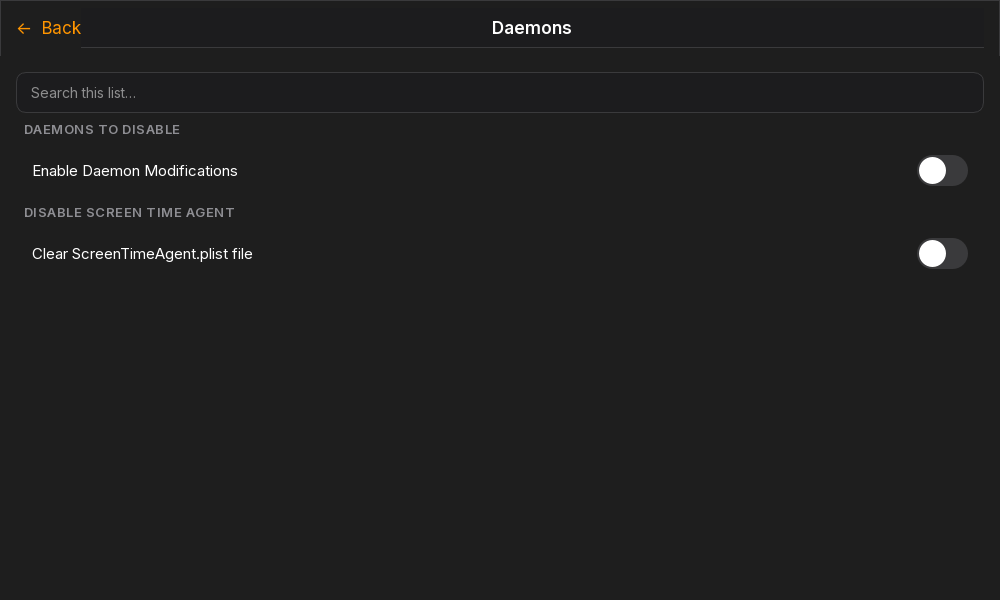
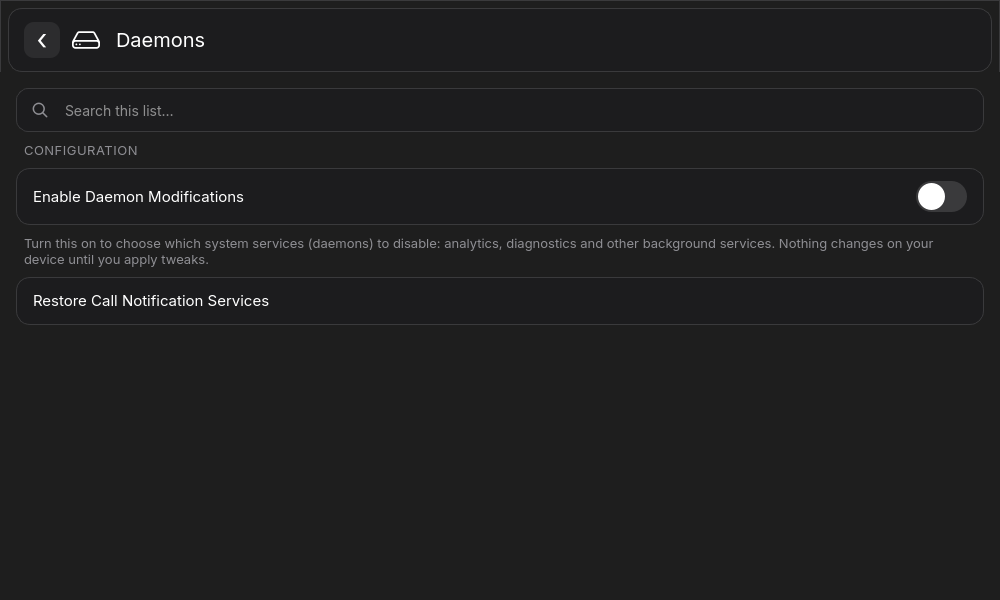
[DOCS] Bring the README feature list and screenshots up to date
- Status Bar on iOS 27 covers the whole cellular entry (carrier name,
  service badge, signal bars), not just the carrier name.
- SpringBoard, Internal, Liquid Glass and Daemons lists now match the tweak
  registry and the Daemons page; Icon Themes, Passcode Themes, Presets and
  the CLI are listed.
- Translation steps point to gNugget-i18n and I18N_SETUP.md instead of
  regenerating the mirrored Nugget_*.ts files; pyside6-rcc uses zlib to
  match the committed resources_rc.py.
- Screenshots retaken from the current interface (English, 1000x600).

diff --git a/README.md b/README.md
@@ -83,10 +83,11 @@ Need support? Join our [Discord Server][server].
     - Change breadcrumb text
     - Show numeric WiFi/Cellular strength
     - Hide or show many icons in the status bar
-  - iOS 27 and above: carrier name only (the rest of the overrides have no
+  - iOS 27 and above: cellular entry only (the rest of the overrides have no
     equivalent in the new status bar format and are hidden on that page)
-    - Change carrier name
-    - Change secondary carrier name
+    - Change primary and secondary carrier name
+    - Change primary and secondary service badge
+    - Change primary and secondary signal bars
     - Not yet verified on physical hardware, only on the iOS 27 simulator
 - Springboard Options
   - Set Lock Screen Footnote
@@ -100,40 +101,40 @@ Need support? Join our [Discord Server][server].
   - Enable AirPlay support for Stage Manager
   - Show Red/Green Authentication Line on Lock Screen (See [this issue](https://github.com/leminlimez/Nugget/issues/656) for what it looks like)
   - Disable Floating Tab Bar on iPads
+  - Disable AirDrop Time Limit for Everyone Option
+  - Disable Breadcrumbs
+  - Disable Dynamic Island
+  - Disable Icon Parallax
+  - Hide Search Button on Home Screen
+  - Allow pairing with any watchOS version (iPad only)
 - Internal Options
   - Build Version in Status Bar
-  - Force Right to Left
+  - Force Right to Left / Left to Right
   - Show Hidden Icons on Home Screen
-  - Force Metal HUD Debug
-  - iMessage Diagnostics
-  - IDS Diagnostics
-  - VC Diagnostics
+  - iMessage, Continuity and FaceTime Debugging
+  - Show Accessory Developer Settings
+  - Disable Clock Icon Seconds Hand
+  - Disable Spotlight Searching in Websites
+  - Show Hardware Button Hints in Screenshots
+  - Vibrate on Raise-to-Wake
   - App Store Debug Gesture
   - Notes App Debug Mode
   - Show Touches With Debug Info
   - Hide Respring Icon
   - Play Sound on Paste
   - Show Notifications for System Pastes
-- Disable Liquid Glass (iOS 26.0+):
-  - Ignore Liquid Glass App Build Check (iOS 26.0+)
-  - Force Solarium Fallback (iOS 26.0+, doesn't work on iOS 27 anymore)
-- Disable Daemons:
-  - OTAd
-  - UsageTrackingAgent
-  - Game Center
-  - Screen Time Agent
-  - Logs, Dumps, and Crash Reports
-  - ATWAKEUP
-  - Tipsd
-  - VPN
-  - Chinese WLAN service
-  - HealthKit
-  - AirPrint
-  - Assistive Touch
-  - iCloud
-  - Internet Tethering (aka Personal Hotspot)
-  - PassBook
-  - Spotlight
+- Liquid Glass (iOS 26.0+): 98 options, searchable in the app
+  - Disable or tone down Liquid Glass: Solarium fallback (iOS 26 only), linked-on, hardware and opt-out checks
+  - Turn off specular highlights, refraction, HDR and shadows for the Dock, folders, widgets and Lock Screen clock
+  - Flat icons everywhere
+  - iOS 27: experimental glass flags (Calistoga, floating and stacked-image effects, debug overlays)
+- Disable Daemons (with a one-tap Recommended set):
+  - System services: thermalmonitord, OTA updates, UsageTrackingAgent, Game Center, Screen Time Agent, ATWAKEUP, Tips, VPN icon, Chinese WLAN service, HealthKit, AirPrint, Assistive Touch, iCloud, Internet Tethering (Personal Hotspot), Passbook, Spotlight, Voice Control, NanoTimeKit, Apple Ads, News, Family Sharing, Video Subscriptions, Web Bookmarks, Apple Watch (Nano) services, Siri backend services, Wi-Fi logging, Maps (geod), Safari Suggestions, Reminders, AirPlay, GameKit, Sidecar, Speech Recognition, Translate, Mock Location, DeviceCheck
+  - Analytics & diagnostics: crash reporting, Wi-Fi, system, audio, ecosystem, call and media analytics, CoreDuet, Insight, Metrics, symptom, statistical and wireless diagnostics, Duet heuristics, decisiond, triald, sociald
+- Icon Themes: custom Home Screen icons and labels as WebClips, plus downloadable icon packs
+- Passcode Themes: custom passcode keypads from `.passthm` packages, written over USB/Wi-Fi with [AirLift] (no reboot)
+- Presets: save, switch, export and import whole tweak setups (`.gnpreset`); see [Portable presets](docs/PORTABLE_AND_DIAGNOSTICS.md)
+- Command line: everything above is scriptable through `python nugget_cli.py --help`, with `--json` output and `--dry-run` applies
 </details>
 
 ## Screenshots
@@ -170,13 +171,13 @@ Need support? Join our [Discord Server][server].
 
 <div align="center">
 
-**Thanks everyone who contributes to project!** 🎉
+**Thanks to everyone who contributes to the project!** 🎉
 
 <a href="https://github.com/GoldenNugget-Team/GoldenNugget/graphs/contributors">
   <img src="https://contrib.rocks/image?repo=GoldenNugget-Team/GoldenNugget" alt="Contributors" />
 </a>
 
-Want to see your name here? Open [Pull Request](https://github.com/GoldenNugget-Team/GoldenNugget/pulls)!
+Want to see your name here? Open a [Pull Request](https://github.com/GoldenNugget-Team/GoldenNugget/pulls)!
 
 </div>
 
@@ -239,14 +240,13 @@ step is required for the current interface.
 
 When changing Qt resources, regenerate the resource module:
 ```py
-pyside6-rcc src/qt/resources.qrc -o src/qt/resources_rc.py
+pyside6-rcc --compress-algo zlib src/qt/resources.qrc -o src/qt/resources_rc.py
 ```
 
-To create and compile languages, you can use the following commands:
-```py
-pyside6-lupdate main_app.py src/gui/main_window.py src/gui/pages/page.py src/gui/pages/pages_list.py src/gui/pages/main/*.py src/gui/pages/tools/*.py src/gui/dialogs/*.py src/gui/ios/*.py src/devicemanagement/device_manager.py src/exceptions/*.py src/tweaks/*.py src/tweaks/posterboard/*.py src/tweaks/posterboard/template_options/*.py src/tweaks/status_bar/*.py src/controllers/*.py -ts src/qt/translations/Nugget_{language code}.ts # generate/update the language file
-pyside6-lrelease src/qt/translations/Nugget_{language code}.ts -qm src/qt/translations/Nugget_{language code}.qm # compile to binary
-```
+Translations live in the [gNugget-i18n repository][i18n] and are synced into
+`src/qt/translations/` automatically, so do not edit the `Nugget_*.ts` files here.
+See [I18N_SETUP.md](I18N_SETUP.md) for the sync, the local Russian catalog and the
+pitfalls of regenerating catalogs with `pyside6-lupdate`.
 
 Build the application for your current platform:
 
@@ -266,7 +266,7 @@ See [CONTRIBUTING.md](CONTRIBUTING.md) for contributions and [FORKING.md](FORKIN
 - Translations crowdsourced using [gNugget-i18n repository][i18n]
 - [LeminLimez] for creating Nugget.
 - [0xjonhnnydev] for [AirLift]
-- [LEGACY] Old translations was crowdsourced using [Nugget POEditor][POEditorJoin]. Thank you everyone who assisted in the translation effort!
+- [LEGACY] Old translations were crowdsourced using [Nugget POEditor][POEditorJoin]. Thank you everyone who assisted in the translation effort!
 - [PosterRestore][PosterRestoreDiscord] for their help with PosterBoard
   - Special thanks to [dootskyre][dootskyreX], [Middo][MiddoX], [dulark][dularkGitHub], forcequitOS, and pingubow for their work on nugget. It would not have been possible without them!
   - Thanks to [Snoolie for aar handling][python-aar-stuffGitHub]!
